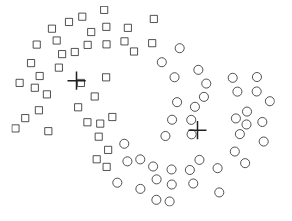
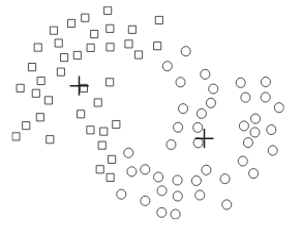
fixed images

diff --git a/Bachelorarbeit/Bachelorarbeit.21.tex b/Bachelorarbeit/Bachelorarbeit.21.tex
@@ -416,14 +416,14 @@ changes fall below a certain $\epsilon$.
 
 \begin{figure}[H]
 \begin{subfigure}[c]{0.5\textwidth} 
-\includegraphics[width=\textwidth]
-{/home/nilus/Dokumente/LyxBachelorarbeit/Bachelorarbeit/images/example_kmeans_original.png} 
+\frame{\includegraphics[width=\textwidth]
+{/home/nilus/Dokumente/LyxBachelorarbeit/Bachelorarbeit/images/example_kmeans.png}}
 \subcaption{Original points} 
 \end{subfigure}
 \begin{subfigure}[c]{0.5\textwidth} 
-\includegraphics[width=1\textwidth]
-{/home/nilus/Dokumente/LyxBachelorarbeit/Bachelorarbeit/images/example_kmeans.png} 
-\subcaption{Cluster centers with k = 2} 
+\frame{\includegraphics[width=1\textwidth]
+{/home/nilus/Dokumente/LyxBachelorarbeit/Bachelorarbeit/images/example_kmeans_original.png}}
+\subcaption{Cluster centers with k = 3} 
 \end{subfigure}
 
 \caption{Example of k-means clustering on data with distinct groups\cite{Pang-NingTan2005}}
@@ -435,14 +435,15 @@ function:
 \[
 J=\sum_{j=1}^{k}\sum_{\forall i}|x_{i}^{j}-c_{j}|^{2}
 \]
-hereby $c_{j}$is the coordinate vector of the $j$th cluster and
-$\{x_{i}^{j}\}$ are the points assigned to the $j$th cluster\cite{ChrisSolomon2011}.
-It can be shown that the k-means algorithm converges to a local minimum\cite{Fu1981}.
+hereby $c_{j}$ is the coordinate vector of the $j$th cluster, $\{x_{i}^{j}\}$
+are the points assigned to the $j$th cluster and $|x_{i}^{j}-c_{j}|$
+describes the distance\cite{ChrisSolomon2011}. It can be shown that
+the k-means algorithm converges to a local minimum\cite{Fu1981}.
 
 The relevant distance measure can be chosen dependent on the task,
 but most of the times the normal Euclidean distance is used. \\
 \[
-\text{Euclidean distance: }\frac{1}{I}\cdot\forall i\sqrt{x_{i}-c_{i}}^{2}
+\text{Euclidean distance: }\frac{1}{I}\cdot\forall i\left(\sqrt{x_{i}-c_{i}}\right)^{2}
 \]
 
 An advange of k-means clustering is its low complexity but it has
@@ -454,14 +455,14 @@ of clusters as input a priori\cite{Bora2015,Pang-NingTan2005}.
 
 \begin{figure}[H]
 \begin{subfigure}[c]{0.5\textwidth} 
-\includegraphics[width=\textwidth]
-{/home/nilus/Dokumente/LyxBachelorarbeit/Bachelorarbeit/images/example_kmeans_noglobal_source.png} 
+\frame {\includegraphics[width=\textwidth]
+{/home/nilus/Dokumente/LyxBachelorarbeit/Bachelorarbeit/images/example_kmeans_noglobal_source.png}}
 \subcaption{Original points} 
 \end{subfigure}
 \begin{subfigure}[c]{0.5\textwidth} 
-\includegraphics[width=1\textwidth]
-{/home/nilus/Dokumente/LyxBachelorarbeit/Bachelorarbeit/images/example_kmeans_noglobal.png} 
-\subcaption{Cluster centers with k = 2} 
+\frame {\includegraphics[width=1\textwidth]
+{/home/nilus/Dokumente/LyxBachelorarbeit/Bachelorarbeit/images/example_kmeans_noglobal.png}}
+\subcaption{Cluster centers with k = 3} 
 \end{subfigure}\caption{Example of k-means clustering on data with non-globular clusters\cite{Pang-NingTan2005}}
 \end{figure}
 
